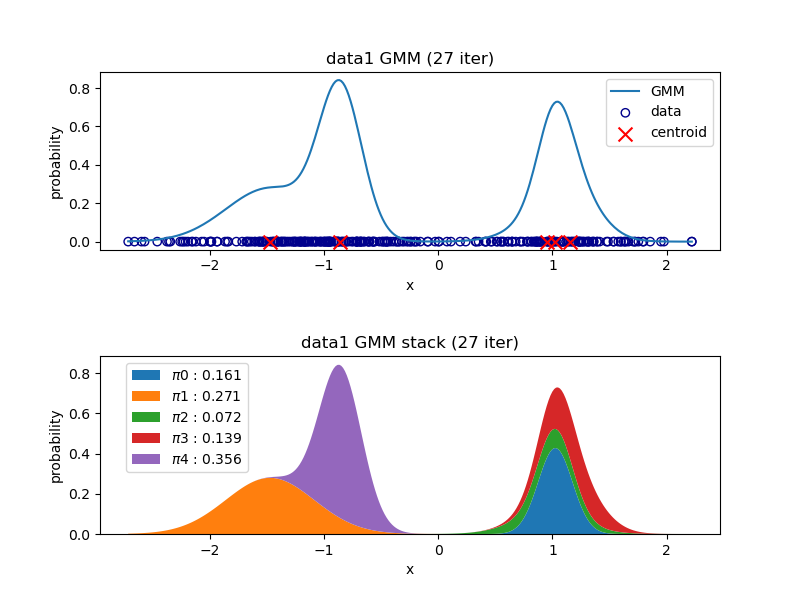
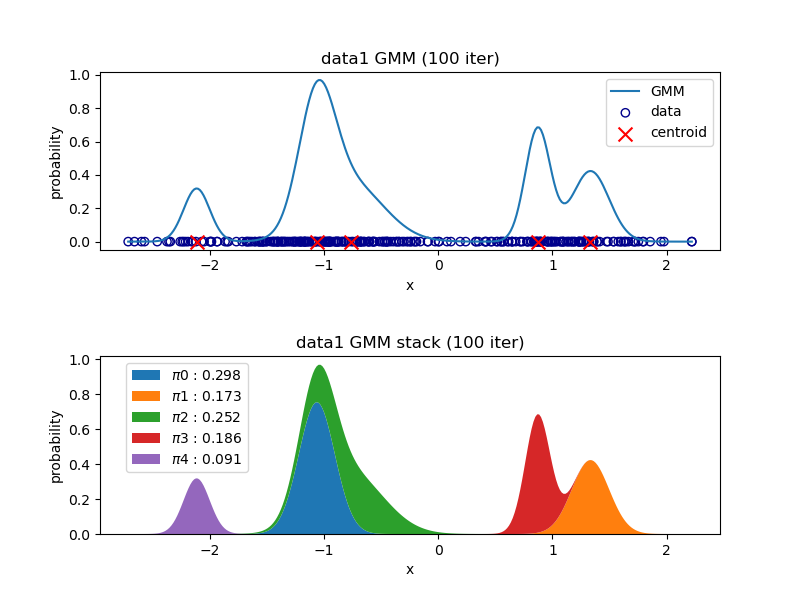
k-means追加

diff --git a/ex7/t_hayakawa/main.py b/ex7/t_hayakawa/main.py
@@ -1,8 +1,10 @@
 import numpy as np
 import argparse
+import time
 import pandas as pd
 import matplotlib.pyplot as plt
 from scipy.stats import norm
+from sklearn.cluster import KMeans
 
 
 class GMM:
@@ -35,11 +37,13 @@ class GMM:
         return nume / deno
 
     def calc_gamma(self):
+        # 負担率の計算
         gam = self.pi.reshape(-1, 1) * self.gaus()
         gam /= np.sum(gam, axis=0)
         self.gamma = gam
 
     def update_parames(self):
+        # pi, mu, sigmaの更新
         N_k = np.sum(self.gamma, axis=1)
         self.pi = N_k / self.N
         self.mu = np.sum(
@@ -74,7 +78,7 @@ class GMM:
 
 
 def gaus_pi(data, pi, mu, sigma, D):
-    # 正規分布の値の取得
+    # pi * 正規分布の値の取得
     # (N, D) - (k, D) ->(1, N, D) - (k, 1, D) = (k, N, D)
     diff_data = data[np.newaxis, :, :] - mu[:, np.newaxis, :]
     # (k, N, N)
@@ -89,7 +93,14 @@ def gaus_pi(data, pi, mu, sigma, D):
 def main():
     parser = argparse.ArgumentParser()
     parser.add_argument("filename", type=str, help="data file .csv")
-    parser.add_argument("--k", type=int, default=3, help="cluster number")
+    parser.add_argument("--k", type=int, required=True, help="cluster number")
+    parser.add_argument(
+        "--m",
+        type=str,
+        choices=["r", "km", "km+"],
+        default="r",
+        help="method for deciding first mu, [random, k-means, k-means++]",
+    )
 
     args = parser.parse_args()
 
@@ -97,17 +108,34 @@ def main():
     data = pd.read_csv(args.filename + ".csv", header=None).values
 
     K = args.k
+    method = args.m
     n = data.shape[0]
 
+    # FIXME:乱数シード
+    # np.random.seed(100)
+
     if data.shape[1] == 1:
-        mu = (np.max(data[:, 0]) - np.min(data[:, 0])) * np.random.rand(K, 1) + np.min(
-            data[:, 0]
-        )
+        start = time.time()
+        if method == "r":
+            mu = (np.max(data[:, 0]) - np.min(data[:, 0])) * np.random.rand(
+                K, 1
+            ) + np.min(data[:, 0])
+        elif method == "km":
+            model = KMeans(n_clusters=K, init="random")
+            model.fit(data)
+            mu = model.cluster_centers_
+        elif method == "km+":
+            model = KMeans(n_clusters=K)
+            model.fit(data)
+            mu = model.cluster_centers_
         sig = np.random.rand(K, 1, 1)
         pi = np.zeros(K)
         pi += 1 / K
         gmm = GMM(data, K, mu, sig, pi)
         pi, mu, sig, lh_list, iter = gmm.iteration(I=100, e=0.01)
+
+        calc_time = time.time() - start
+        print(f"calc_time({method}): {calc_time:.5f}")
 
         xx = np.linspace(np.min(data[:, 0]), np.max(data[:, 0]), n)
         pdfs = np.zeros((n, K))
@@ -161,23 +189,38 @@ def main():
         )
         plt.plot(lh_list[:, 0], lh_list[:, 1])
         plt.savefig(f"{args.filename}_lh.png")
-        plt.show()
+        # plt.show()
 
     elif data.shape[1] == 2:
-        # FIXME: k - meansで決める
-        mu_x = (np.max(data[:, 0]) - np.min(data[:, 0])) * np.random.rand(
-            K, 1
-        ) + np.min(data[:, 0])
-        mu_y = (np.max(data[:, 1]) - np.min(data[:, 1])) * np.random.rand(
-            K, 1
-        ) + np.min(data[:, 1])
-        mu = np.hstack((mu_x, mu_y))
+        start = time.time()
+
+        if method == "r":
+            mu_x = (np.max(data[:, 0]) - np.min(data[:, 0])) * np.random.rand(
+                K, 1
+            ) + np.min(data[:, 0])
+            mu_y = (np.max(data[:, 1]) - np.min(data[:, 1])) * np.random.rand(
+                K, 1
+            ) + np.min(data[:, 1])
+            mu = np.hstack((mu_x, mu_y))
+        elif method == "km":
+            model = KMeans(n_clusters=K, init="random")
+            model.fit(data)
+            mu = model.cluster_centers_
+        elif method == "km+":
+            model = KMeans(n_clusters=K)
+            model.fit(data)
+            mu = model.cluster_centers_
+
         # -5~5の間でランダムな値の共分散
+        np.random.seed(1)
         sig = 10 * np.random.rand(K, 2, 2) - 5
         pi = np.zeros(K)
         pi += 1 / K
         gmm = GMM(data, K, mu, sig, pi)
         pi, mu, sig, lh_list, iter = gmm.iteration(I=100, e=0.01)
+
+        calc_time = time.time() - start
+        print(f"calc_time({method}): {calc_time:.5f}")
 
         fig = plt.figure()
         fig.add_subplot(
